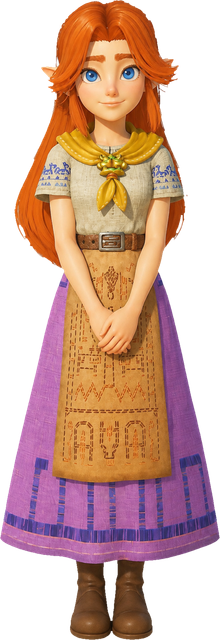
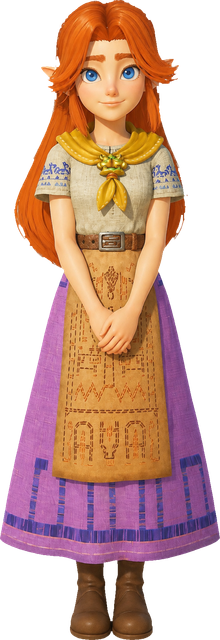
Great Fairy and Phantom Ganon art, Goron art for Biggoron/Medigoron, Malon cleanup
- Malon: remove leftover background beside the ears and on hair tips;
  removed pixels no longer bleed back in when the edge is softened
- Great Fairy and on-foot Phantom Ganon get their own art
- Biggoron and Medigoron share the Goron art

Claude-Session: https://claude.ai/code/session_01TYYWG7vpugJJjzU7kuqrn3

diff --git a/src/content/ocarina/artManifest.ts b/src/content/ocarina/artManifest.ts
@@ -1,2 +1,2 @@
 // Generated by scripts/process_art.py: ids that have files in public/art and public/portraits.
-export const ART_IDS: string[] = ["barinade", "bongoBongo", "businessScrub", "carpenterBoss", "dampe", "darkLink", "darunia", "dekuScrub", "dekuTree", "dinolfos", "ganon", "ganondorf", "gerudoGuard", "gerudoThief", "goronWarrior", "hyruleSoldier", "impa", "ingo", "ironKnuckle", "ironKnuckleNabooru", "kaepora", "kingDodongo", "kingZora", "kokiriA", "kokiriB", "kokiriC", "kotake", "koume", "link", "lizalfos", "malon", "maskSalesman", "mido", "moblin", "morpha", "nabooru", "navi", "phantomGanonMounted", "queenGohma", "rauru", "ruto", "saria", "sheik", "sheikahWarrior", "stalchild", "stalfos", "talon", "twinrova", "volvagia", "youngLink", "zelda", "zoraWarrior"];
+export const ART_IDS: string[] = ["barinade", "bongoBongo", "businessScrub", "carpenterBoss", "dampe", "darkLink", "darunia", "dekuScrub", "dekuTree", "dinolfos", "ganon", "ganondorf", "gerudoGuard", "gerudoThief", "goronWarrior", "greatFairy", "hyruleSoldier", "impa", "ingo", "ironKnuckle", "ironKnuckleNabooru", "kaepora", "kingDodongo", "kingZora", "kokiriA", "kokiriB", "kokiriC", "kotake", "koume", "link", "lizalfos", "malon", "maskSalesman", "mido", "moblin", "morpha", "nabooru", "navi", "phantomGanon", "phantomGanonMounted", "queenGohma", "rauru", "ruto", "saria", "sheik", "sheikahWarrior", "stalchild", "stalfos", "talon", "twinrova", "volvagia", "youngLink", "zelda", "zoraWarrior"];

diff --git a/src/content/ocarina/art.ts b/src/content/ocarina/art.ts
@@ -5,13 +5,14 @@ export { ART_IDS } from './artManifest';
 
 export const ART_ALIASES: Record<string, string> = {
   ganondorfBoss: 'ganondorf',
-  phantomGanon: 'phantomGanonMounted', // until on-foot art arrives
   clubMoblin: 'moblin',
   fireKeese: 'keese',
   // Generic soldiers of the same army can share a look:
   hyruleKnight: 'hyruleSoldier',
   hyruleCavalry: 'hyruleSoldier',
   goronRoller: 'goronWarrior',
+  biggoron: 'goronWarrior',
+  medigoron: 'goronWarrior',
   zoraMystic: 'zoraWarrior',
   gibdo: 'redead',
 };

diff --git a/scripts/cutout_malon.py b/scripts/cutout_malon.py
@@ -10,7 +10,7 @@ from PIL import Image, ImageFilter
 im = Image.open(sys.argv[1]).convert("RGBA")
 w, h = im.size
 px = im.load()
-FACE = (300, 130, 600, 380)  # never treat anything here as background (eye highlights)
+FACE = (345, 185, 545, 265)  # eyes only: keep the highlights in her eyes
 
 
 def cand(p):
@@ -103,7 +103,81 @@ for y in range(3, h - 3):
         if n:
             px[x, y] = (acc[0] // n, acc[1] // n, acc[2] // n, 255)
 
+# Final pass: pale specks hemmed in by hair or transparency are leftover background.
+mp = mask.load()
+def pale(x, y):
+    r, g, b, _ = px[x, y]
+    return mp[x, y] > 0 and min(r, g, b) >= 170 and max(r, g, b) - min(r, g, b) <= 50
+def hairy(x, y):
+    r, g, b, _ = px[x, y]
+    return mp[x, y] == 0 or (r > 160 and r - b > 80 and g < 175)
+seen2 = bytearray(w * h)
+for sy in range(2, h - 2):
+    for sx in range(2, w - 2):
+        if seen2[sy * w + sx] or not pale(sx, sy):
+            continue
+        comp, q = [], deque([(sx, sy)])
+        seen2[sy * w + sx] = 1
+        while q:
+            x, y = q.popleft()
+            comp.append((x, y))
+            for dx, dy in ((1, 0), (-1, 0), (0, 1), (0, -1)):
+                nx, ny = x + dx, y + dy
+                if 2 <= nx < w - 2 and 2 <= ny < h - 2 and not seen2[ny * w + nx] and pale(nx, ny):
+                    seen2[ny * w + nx] = 1
+                    q.append((nx, ny))
+        if len(comp) > 400:
+            continue  # big pale areas are clothing, not specks
+        cx = sum(x for x, _ in comp) / len(comp)
+        cy = sum(y for _, y in comp) / len(comp)
+        if FACE[0] <= cx <= FACE[2] and FACE[1] <= cy <= FACE[3]:
+            continue
+        cs = set(comp)
+        ring = {(x + dx, y + dy) for x, y in comp for dx, dy in ((2, 0), (-2, 0), (0, 2), (0, -2))} - cs
+        if ring and sum(hairy(x, y) for x, y in ring) / len(ring) >= 0.7:
+            for x, y in comp:
+                mp[x, y] = 0
+
+# Head area: peel warm off-white pixels caught between hair tips (no white in her hair or ears).
+HEAD_BOTTOM = 330
+for _ in range(3):
+    peel = []
+    for y in range(2, HEAD_BOTTOM):
+        for x in range(2, w - 2):
+            if mp[x, y] == 0 or (FACE[0] <= x <= FACE[2] and FACE[1] <= y <= FACE[3]):
+                continue
+            if not any(mp[x + dx, y + dy] == 0 for dx in (-2, -1, 0, 1, 2) for dy in (-2, -1, 0, 1, 2)):
+                continue
+            r, g, b, _ = px[x, y]
+            if min(r, g, b) >= 195 and max(r, g, b) - min(r, g, b) <= 75:
+                peel.append((x, y))
+    for x, y in peel:
+        mp[x, y] = 0
+
+# Beside the face (where only hair and ears are), near-white pixels are always leftover background.
+for y in range(0, HEAD_BOTTOM):
+    for x in list(range(0, 330)) + list(range(570, w)):
+        r, g, b, _ = px[x, y]
+        if mp[x, y] and min(r, g, b) >= 200 and max(r, g, b) - min(r, g, b) <= 75:
+            mp[x, y] = 0
+
+# Strand tips beside the face: pale, unsaturated pixels touching transparency are background blend.
+for _ in range(2):
+    peel = []
+    for y in range(2, HEAD_BOTTOM):
+        for x in list(range(2, 330)) + list(range(570, w - 2)):
+            r, g, b, _ = px[x, y]
+            if mp[x, y] == 0 or min(r, g, b) < 140 or r - b >= 90:
+                continue
+            if any(mp[x + dx, y + dy] == 0 for dx in (-2, -1, 0, 1, 2) for dy in (-2, -1, 0, 1, 2)):
+                peel.append((x, y))
+    for x, y in peel:
+        mp[x, y] = 0
+
+# Soften the edge, but never let removed pixels bleed back in.
+hard = mask.copy()
 mask = mask.filter(ImageFilter.GaussianBlur(0.6))
+mask = Image.composite(mask, hard, hard)  # where hard is 0, stay 0
 im.putalpha(mask)
 im.save("art-src/malon.png")
 print("done")

diff --git a/scripts/process_art.py b/scripts/process_art.py
@@ -77,6 +77,8 @@ ENTRIES = {
     "morpha": ("morpha.png", (0.72, 0.78, 0.42)),
     "bongoBongo": ("bongoBongo.png", (0.49, 0.48, 0.50)),
     "malon": ("malon.png", (0.50, 0.14, 0.42)),
+    "greatFairy": ("greatFairy.webp", (0.22, 0.44, 0.24)),
+    "phantomGanon": ("phantomGanon.png", (0.63, 0.24, 0.30)),
 }
 
 
